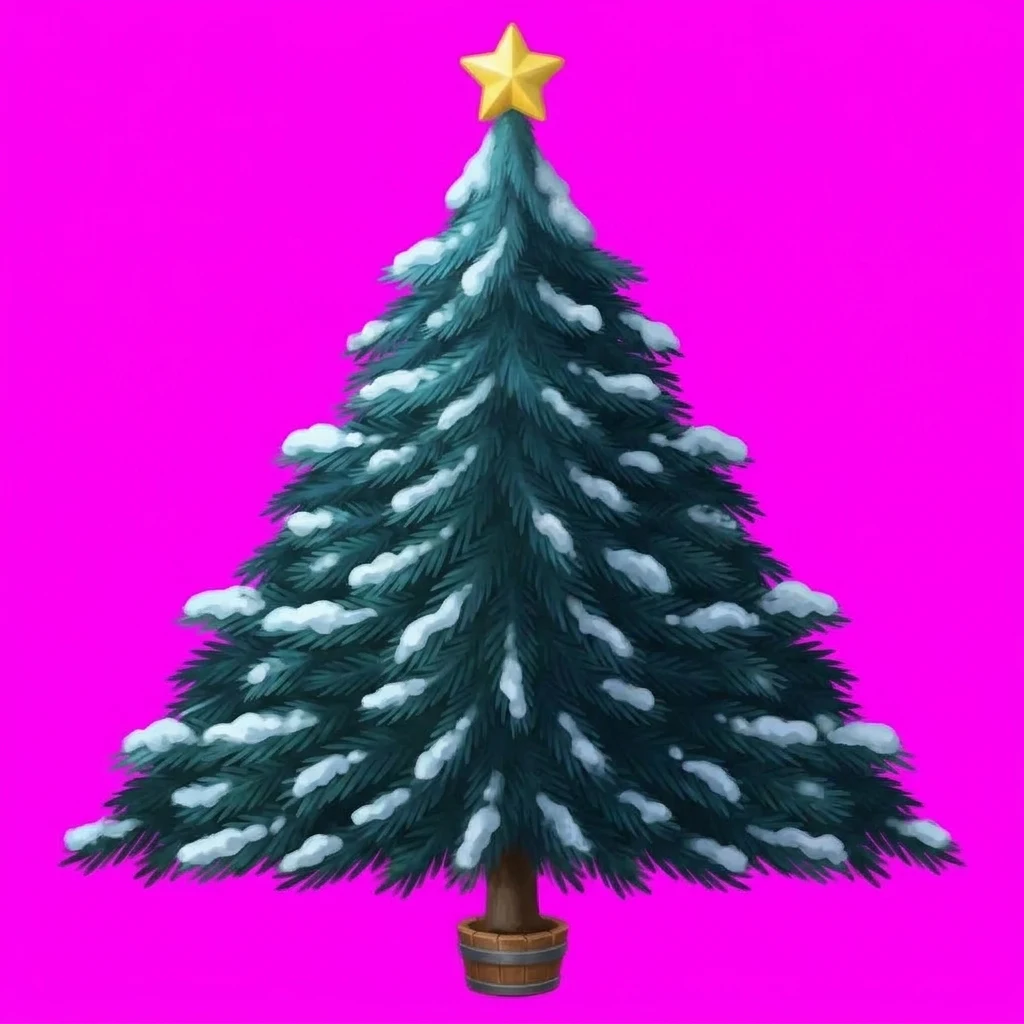
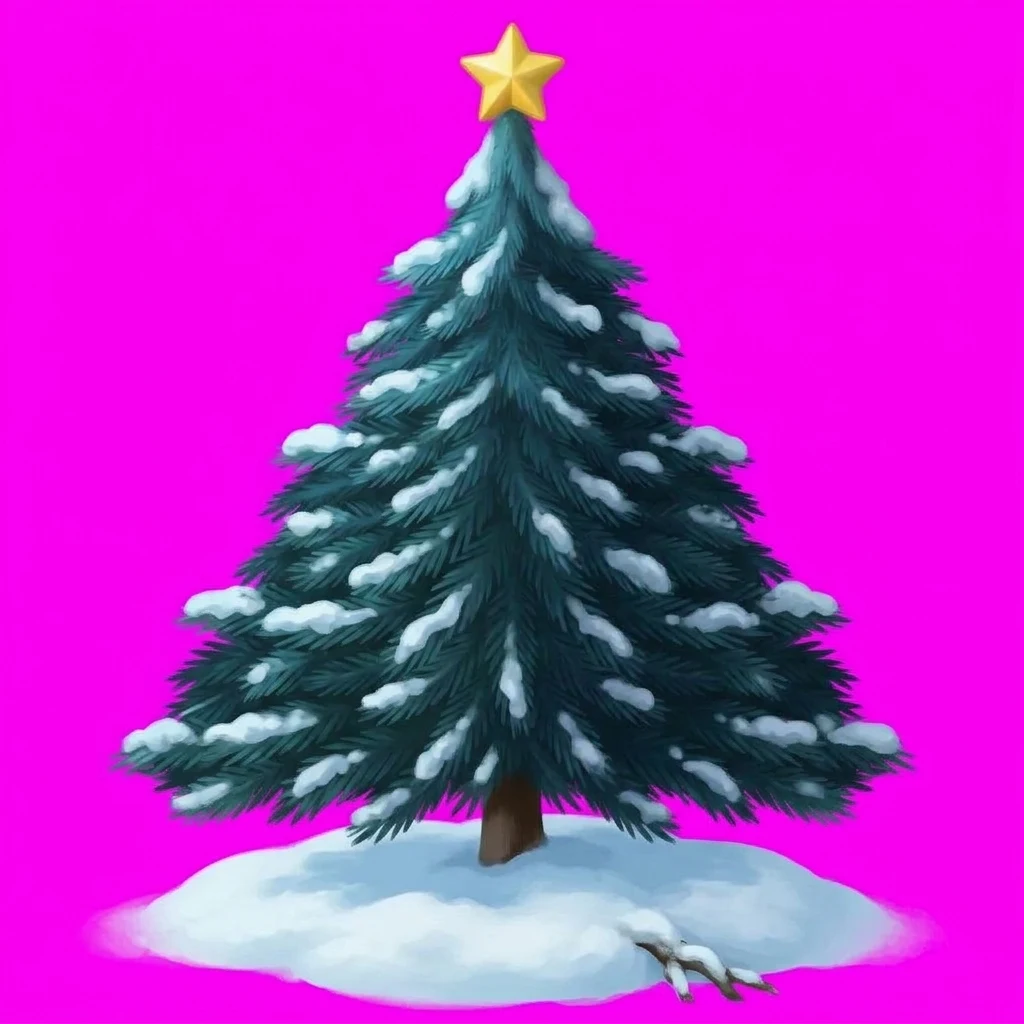
Christmas tree grows out of the snow (no tub)
Claude-Session: https://claude.ai/code/session_01SRCPYjePGwPkXSLpQGR1Tr

Changed region(s): [[0.0625, 0.7188, 0.9375, 1.0]]

diff --git a/src/themeArt.ts b/src/themeArt.ts
@@ -295,11 +295,11 @@ ART.christmas = {
     lineGlow: { 1: '#ffffff' },
     tree: {
       url: '/art/christmas/tree-board.webp',
-      width: 904,
-      height: 977,
-      axisX: 452,
-      topDotY: 223,
-      bottomRowY: 800,
+      width: 806,
+      height: 984,
+      axisX: 403,
+      topDotY: 220,
+      bottomRowY: 745,
     },
   },
   particles: [
